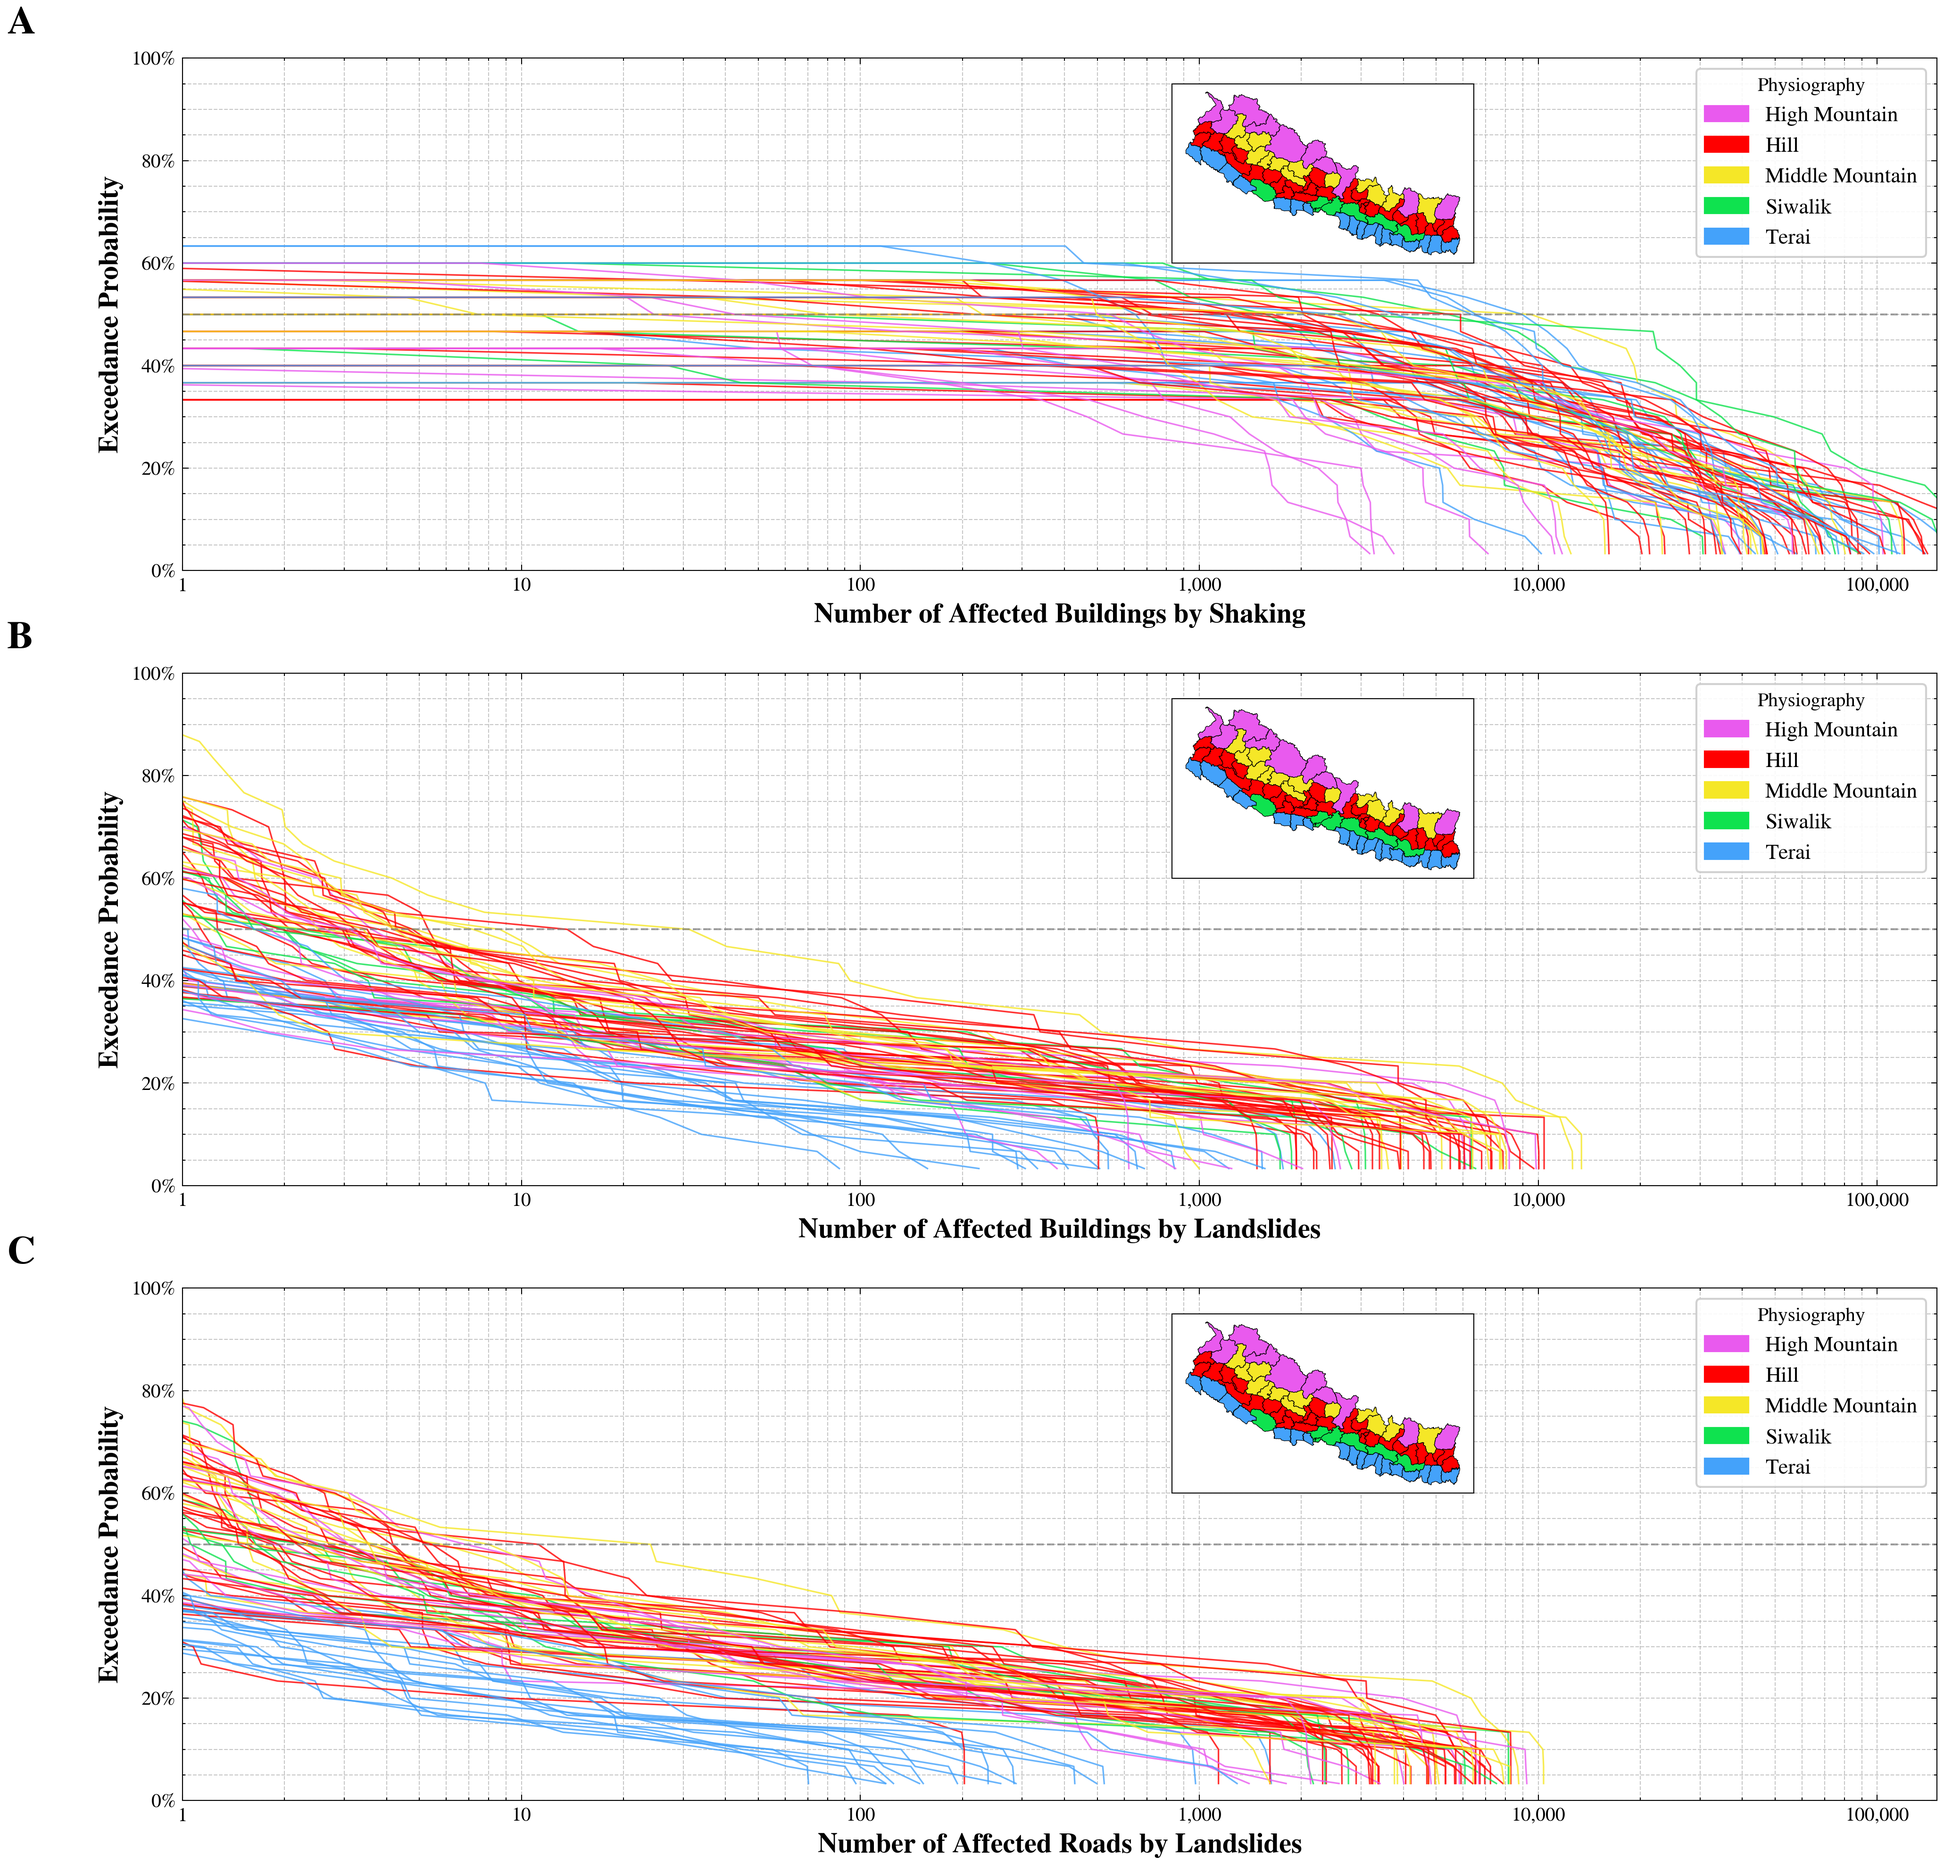
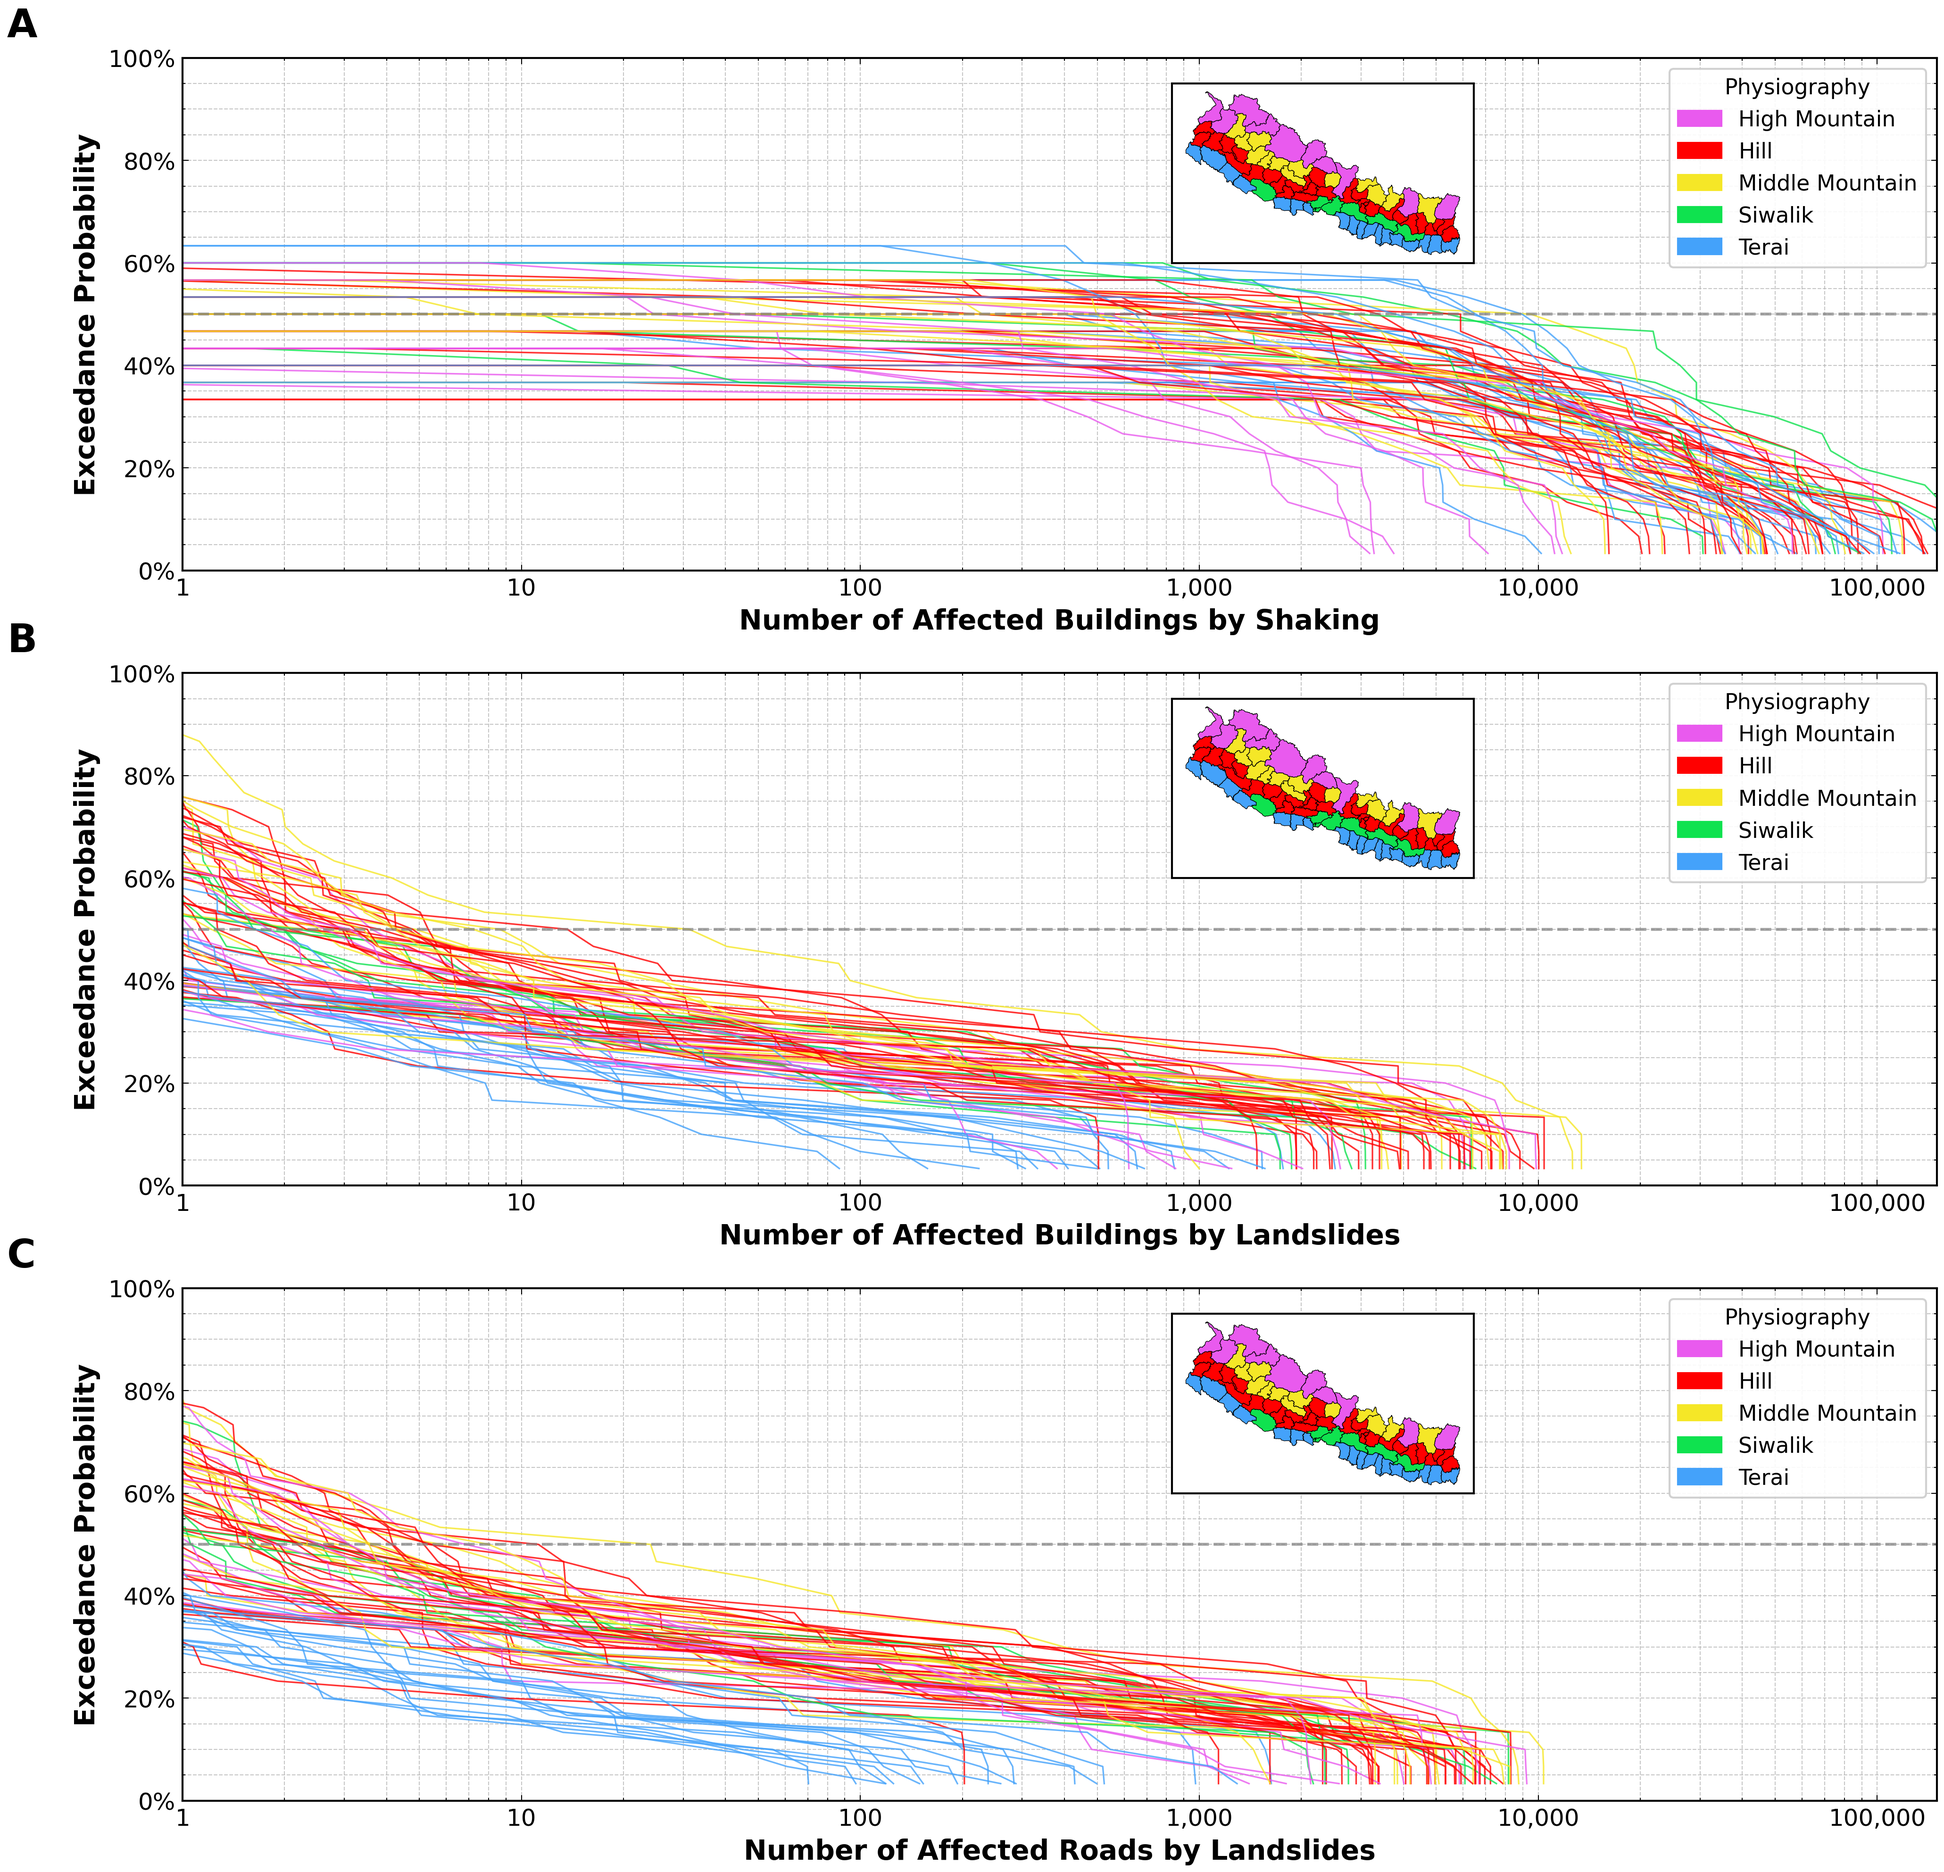
consistent font size for figures

diff --git a/consolidated_figures.py b/consolidated_figures.py
@@ -36,19 +36,35 @@ try:
     plt.style.use(['science', 'no-latex', 'vibrant'])
     print("Using SciencePlots style")
 except:
-    # Custom scientific style settings if SciencePlots not installed
-    plt.rcParams['axes.linewidth'] = 1.0
-    plt.rcParams['axes.labelsize'] = 14
-    plt.rcParams['axes.titlesize'] = 14
-    plt.rcParams['xtick.labelsize'] = 12
-    plt.rcParams['ytick.labelsize'] = 12
-    plt.rcParams['legend.fontsize'] = 11
-    plt.rcParams['legend.title_fontsize'] = 11
-    plt.rcParams['grid.linewidth'] = 0.5
-    plt.rcParams['lines.linewidth'] = 1.5
-    plt.rcParams['lines.markersize'] = 5
-    plt.rcParams['figure.dpi'] = 300
-    print("Using custom scientific style")
+    print("SciencePlots not available, using custom style")
+
+# Unified font and style settings applied AFTER style.use() to ensure consistency
+# across ALL figures regardless of whether SciencePlots loaded
+plt.rcParams.update({
+    # Font family - Arial/Helvetica is standard for scientific figures
+    'font.family': 'sans-serif',
+    'font.sans-serif': ['Arial', 'Helvetica', 'DejaVu Sans'],
+    'font.size': 12,
+    # Axes
+    'axes.linewidth': 1.0,
+    'axes.labelsize': 14,
+    'axes.titlesize': 14,
+    # Ticks
+    'xtick.labelsize': 12,
+    'ytick.labelsize': 12,
+    # Legend
+    'legend.fontsize': 11,
+    'legend.title_fontsize': 11,
+    # Lines and grid
+    'grid.linewidth': 0.5,
+    'lines.linewidth': 1.5,
+    'lines.markersize': 5,
+    # Figure
+    'figure.dpi': 300,
+    # Math text uses the same font as body text
+    'mathtext.default': 'regular',
+})
+print("Unified font settings applied")
 
 # %% Set paths
 # Set working directory and output paths
@@ -1165,7 +1181,7 @@ ax_a.tick_params(axis='both', labelsize=12)
 ax_a.set_aspect('equal', adjustable='box')
 
 # Add panel label
-ax_a.text(-0.08, 1.05, 'A', transform=ax_a.transAxes, fontsize=22, fontweight='bold', va='top')
+ax_a.text(-0.08, 1.05, 'A', transform=ax_a.transAxes, fontsize=20, fontweight='bold', va='top')
 
 # =============================================================================
 # PANEL B (Upper Right): Correlation of remoteness indices (scatter plot)
@@ -1184,7 +1200,7 @@ ax_b.set_xlim(0, 1)
 ax_b.set_ylim(0, 1)
 
 # Add panel label
-ax_b.text(-0.08, 1.05, 'B', transform=ax_b.transAxes, fontsize=22, fontweight='bold', va='top')
+ax_b.text(-0.08, 1.05, 'B', transform=ax_b.transAxes, fontsize=20, fontweight='bold', va='top')
 
 # =============================================================================
 # PANEL C (Lower Left): % roads affected by landslide vs remoteness categories
@@ -1215,7 +1231,7 @@ else:
              ha='center', va='center', transform=ax_c.transAxes, fontsize=14)
 
 # Add panel label
-ax_c.text(-0.08, 1.05, 'C', transform=ax_c.transAxes, fontsize=22, fontweight='bold', va='top')
+ax_c.text(-0.08, 1.05, 'C', transform=ax_c.transAxes, fontsize=20, fontweight='bold', va='top')
 
 # =============================================================================
 # PANEL D (Lower Right): Current worst case vs remoteness categories
@@ -1244,7 +1260,7 @@ else:
              ha='center', va='center', transform=ax_d.transAxes, fontsize=14)
 
 # Add panel label
-ax_d.text(-0.08, 1.05, 'D', transform=ax_d.transAxes, fontsize=22, fontweight='bold', va='top')
+ax_d.text(-0.08, 1.05, 'D', transform=ax_d.transAxes, fontsize=20, fontweight='bold', va='top')
 
 # =============================================================================
 # Save figure
@@ -1437,7 +1453,7 @@ ax_a.tick_params(axis='both', labelsize=12)
 ax_a.set_aspect('equal', adjustable='box')
 
 # Add panel label
-ax_a.text(-0.08, 1.05, 'A', transform=ax_a.transAxes, fontsize=22, fontweight='bold', va='top')
+ax_a.text(-0.08, 1.05, 'A', transform=ax_a.transAxes, fontsize=20, fontweight='bold', va='top')
 
 # =============================================================================
 # PANEL B (Right): Normalized Risk Score
@@ -1482,7 +1498,7 @@ ax_b.tick_params(axis='both', labelsize=12)
 ax_b.set_aspect('equal', adjustable='box')
 
 # Add panel label
-ax_b.text(-0.08, 1.05, 'B', transform=ax_b.transAxes, fontsize=22, fontweight='bold', va='top')
+ax_b.text(-0.08, 1.05, 'B', transform=ax_b.transAxes, fontsize=20, fontweight='bold', va='top')
 
 # =============================================================================
 # Save figure
@@ -1956,7 +1972,7 @@ norm_a = colors.Normalize(vmin=vmin_a, vmax=vmax_a)
 sm_a = plt.cm.ScalarMappable(cmap='rainbow', norm=norm_a)
 sm_a.set_array([])
 cbar_a = plt.colorbar(sm_a, cax=cax_a)
-cbar_a.set_label('Our Relative Risk Score', fontsize=12, fontweight='bold')
+cbar_a.set_label('Our Relative Risk Score', fontsize=14, fontweight='bold')
 
 ax_a.xaxis.set_major_formatter(ticker.FuncFormatter(format_lon))
 ax_a.yaxis.set_major_formatter(ticker.FuncFormatter(format_lat))
@@ -1997,7 +2013,7 @@ norm_b = colors.Normalize(vmin=vmin_b, vmax=vmax_b)
 sm_b = plt.cm.ScalarMappable(cmap='rainbow', norm=norm_b)
 sm_b.set_array([])
 cbar_b = plt.colorbar(sm_b, cax=cax_b)
-cbar_b.set_label('Robinson et al. (2018) Risk Score', fontsize=12, fontweight='bold')
+cbar_b.set_label('Robinson et al. (2018) Risk Score', fontsize=14, fontweight='bold')
 
 ax_b.xaxis.set_major_formatter(ticker.FuncFormatter(format_lon))
 ax_b.yaxis.set_major_formatter(ticker.FuncFormatter(format_lat))
@@ -2020,11 +2036,11 @@ ax_c.scatter(plot_data['Robinson_Risk_Score'], plot_data['RiskScore_Normalized']
 from scipy.stats import pearsonr
 corr, _ = pearsonr(plot_data['Robinson_Risk_Score'], plot_data['RiskScore_Normalized'])
 ax_c.text(0.05, 0.95, f'r = {corr:.3f}', transform=ax_c.transAxes,
-         fontsize=12, verticalalignment='top',
+         fontsize=14, verticalalignment='top',
          bbox=dict(boxstyle='round', facecolor='white', alpha=0.8))
 
-ax_c.set_xlabel('Robinson Risk Score', fontsize=12, fontweight='bold')
-ax_c.set_ylabel('Relative Risk Score', fontsize=12, fontweight='bold')
+ax_c.set_xlabel('Robinson Risk Score', fontsize=14, fontweight='bold')
+ax_c.set_ylabel('Relative Risk Score', fontsize=14, fontweight='bold')
 ax_c.set_title('C)', fontsize=14, fontweight='bold', loc='left')
 ax_c.grid(True, alpha=0.3, linestyle='--')
 ax_c.set_xlim(0.4, 1.05)
@@ -2052,7 +2068,7 @@ ax_d.barh(y + height/2, top_rob['Robinson_Risk_Score'] / top_rob['Robinson_Risk_
 
 ax_d.set_yticks(y)
 ax_d.set_yticklabels(top_rob['DISTRICT'], fontsize=8)
-ax_d.set_xlabel('Risk Score', fontsize=12, fontweight='bold')
+ax_d.set_xlabel('Risk Score', fontsize=14, fontweight='bold')
 ax_d.set_title('D)', fontsize=14, fontweight='bold', loc='left')
 ax_d.legend(loc='lower right', fontsize=14)
 ax_d.grid(axis='x', alpha=0.3, linestyle='--')
